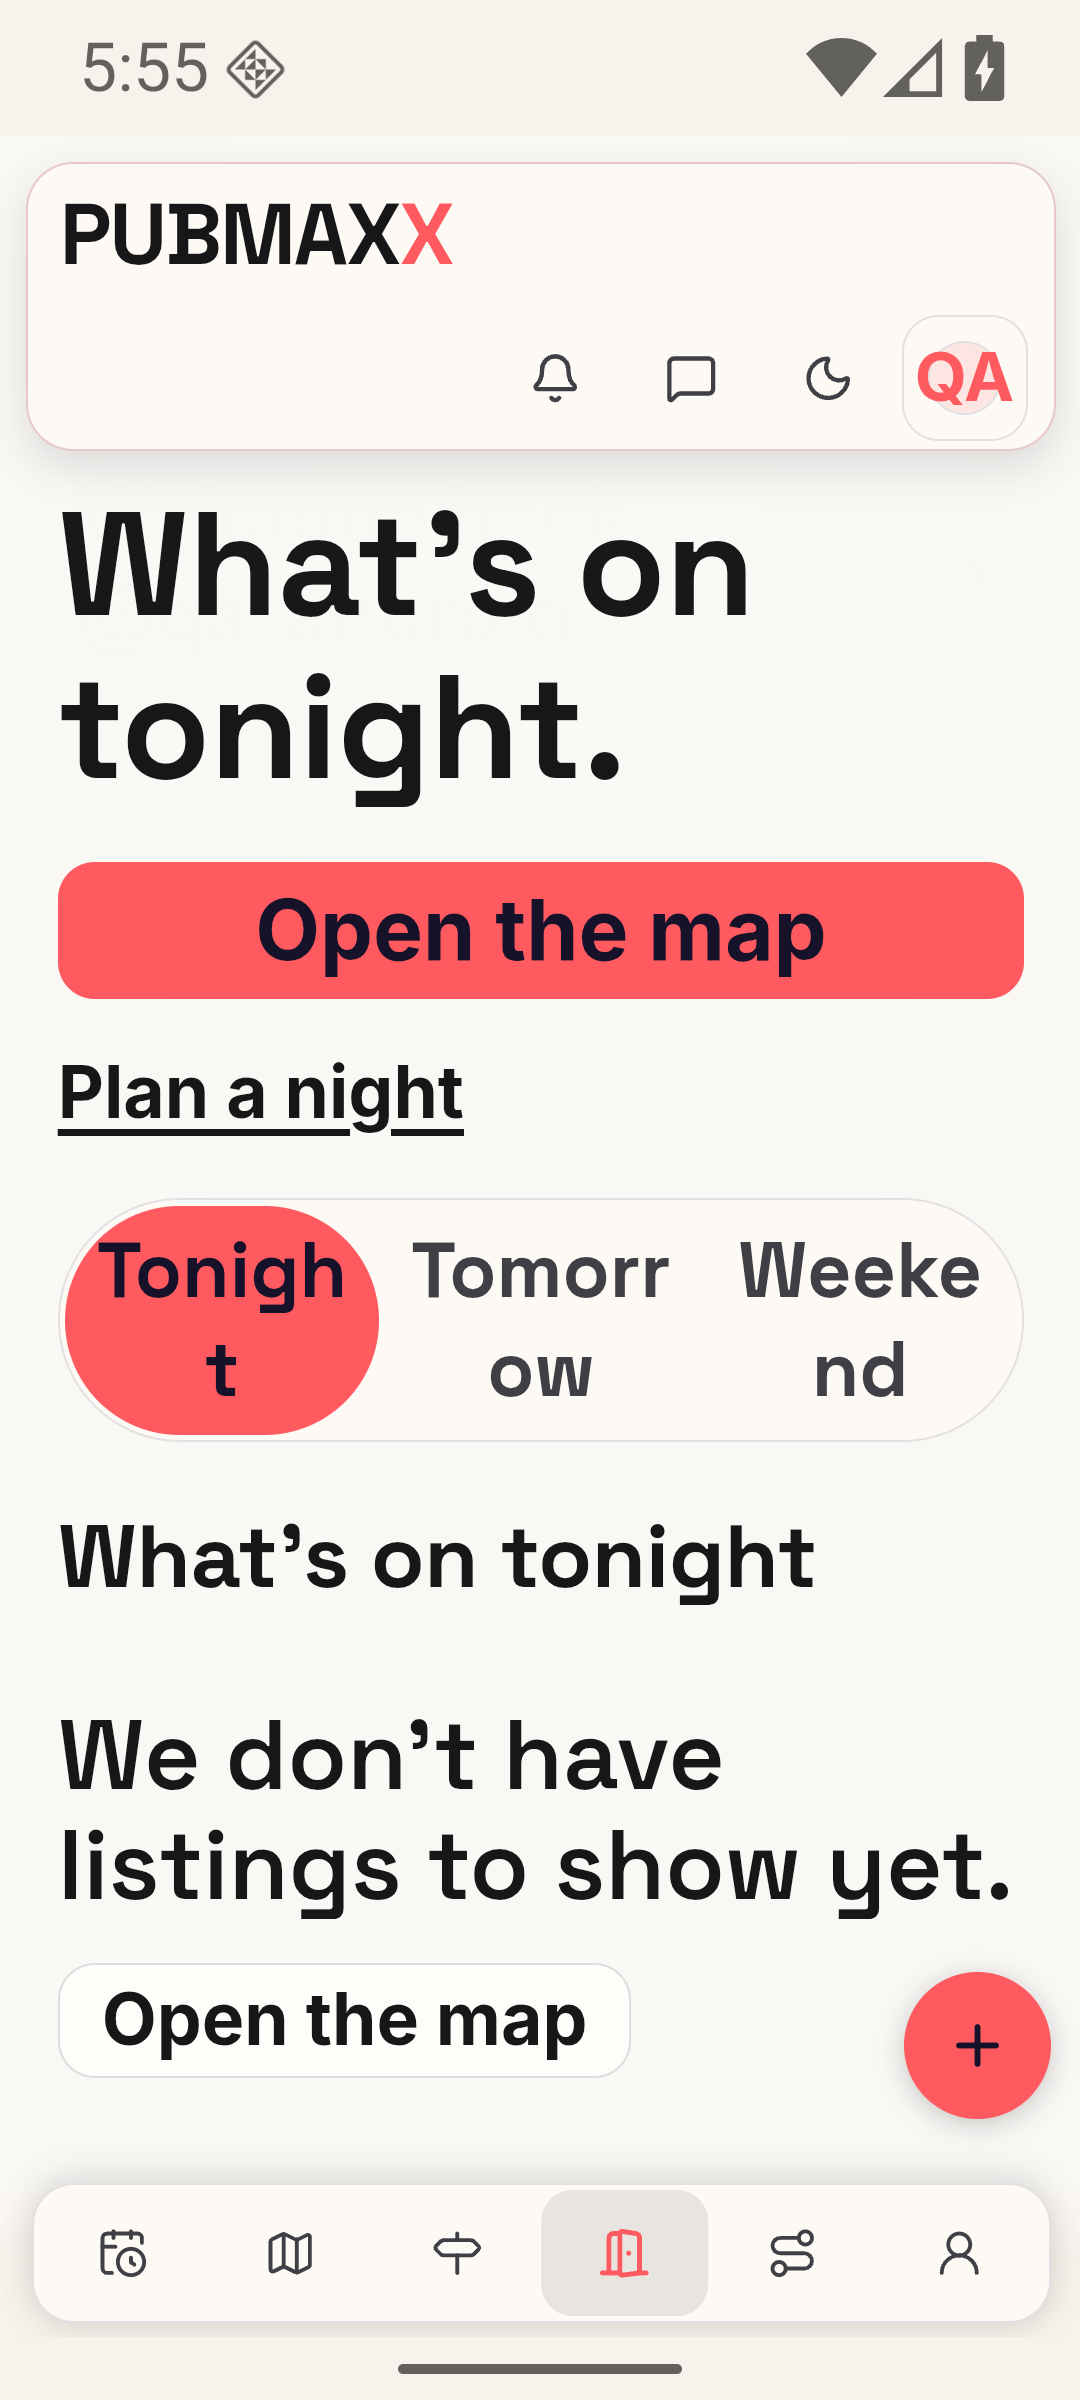
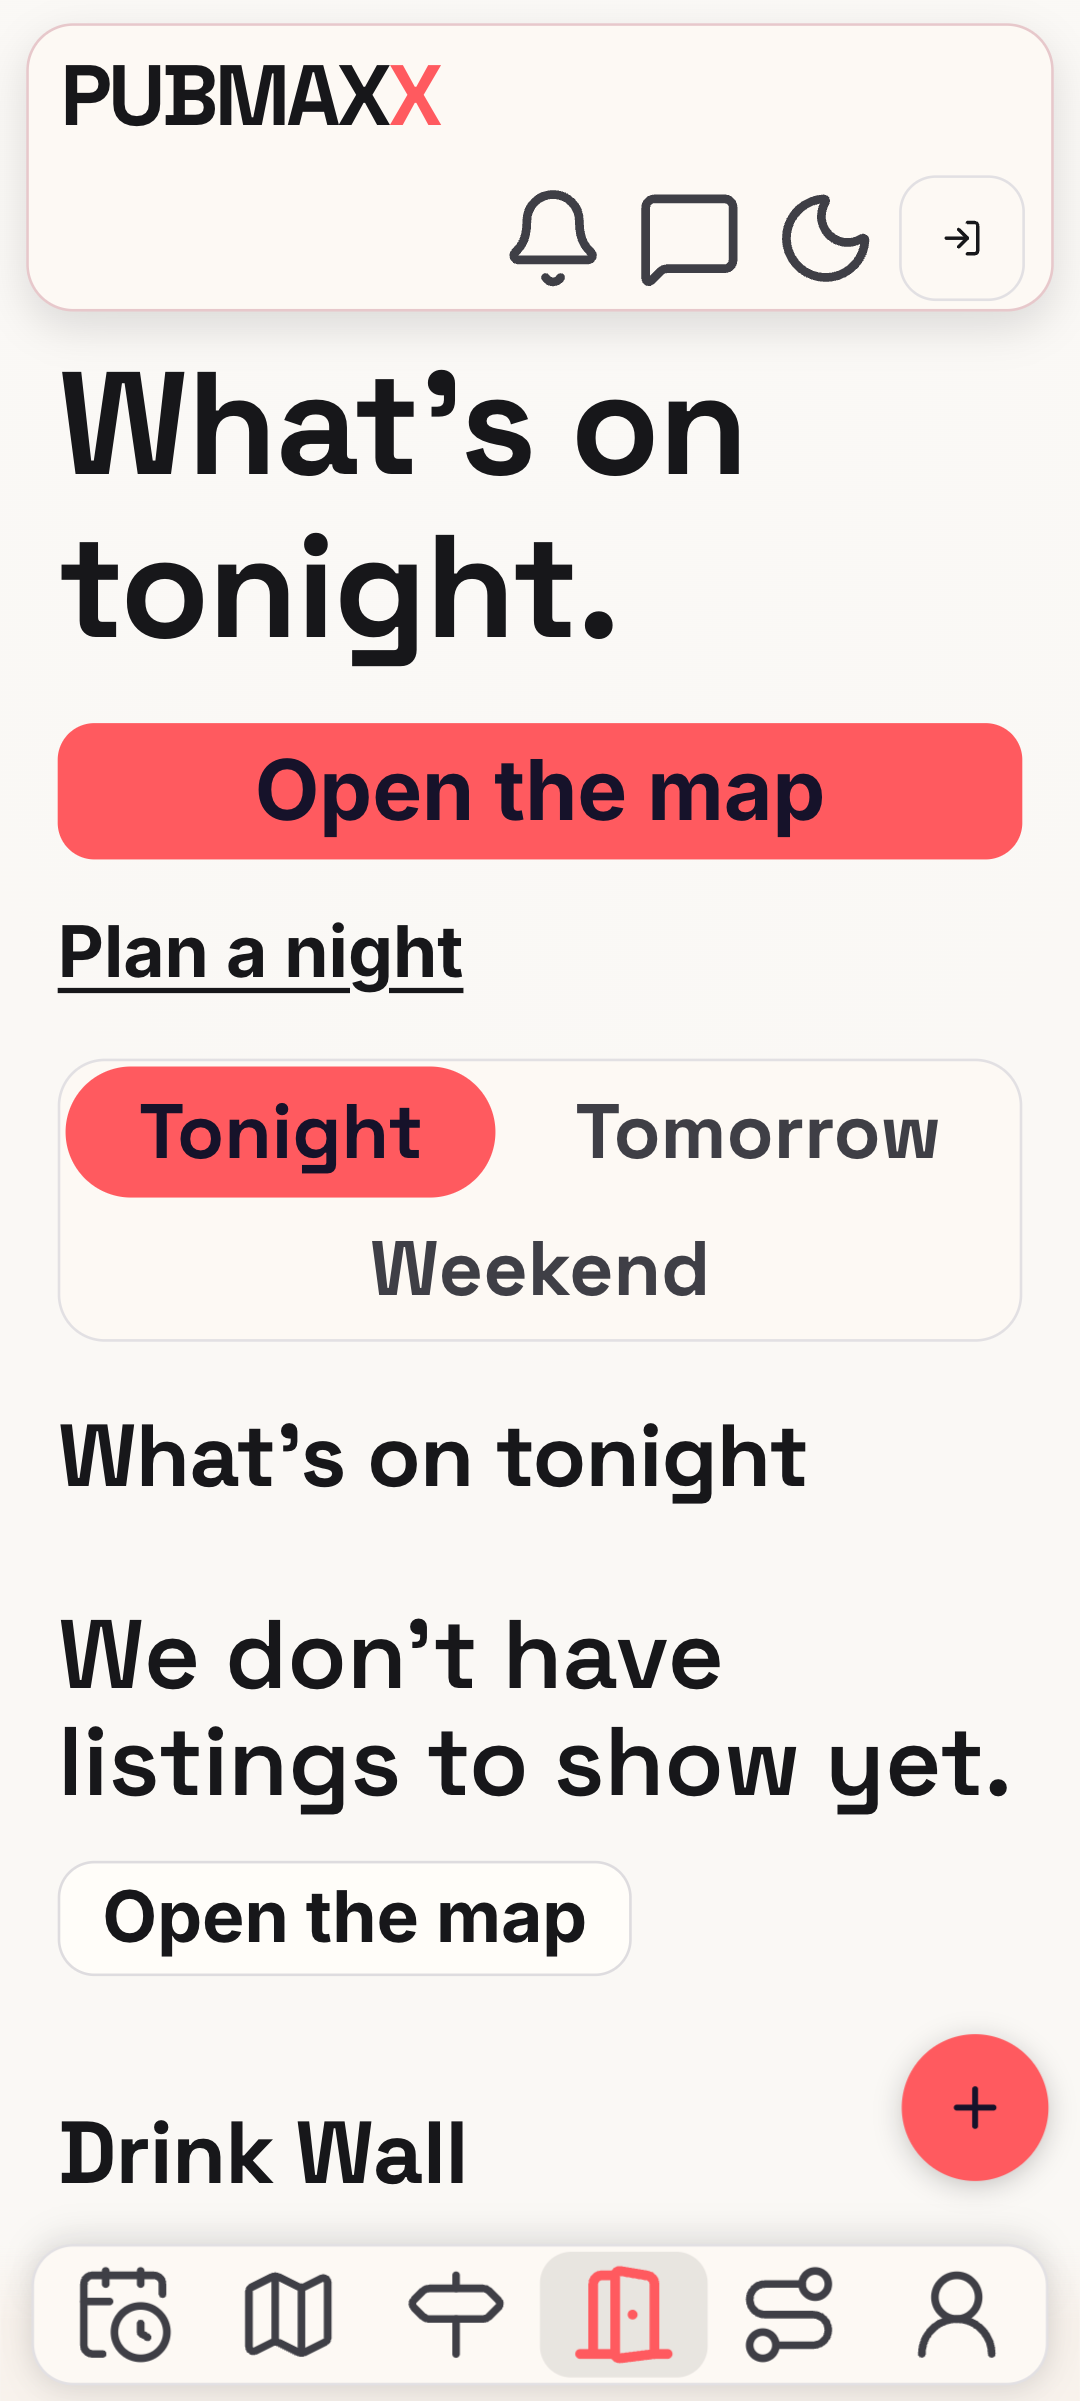
no-mistakes(review): Scope native 2xs, keep day chips and MB whole

diff --git a/e2e/mobile-large-text.spec.ts b/e2e/mobile-large-text.spec.ts
@@ -63,6 +63,45 @@ for (const scale of [1.3, 1.5, 2]) {
   }
 }
 
+for (const scale of [1.3, 1.5, 2]) {
+  test(`Android ${scale}x text keeps day words and the photo size whole`, async ({ page }) => {
+    await page.setViewportSize({ width: 412, height: 840 });
+    await installNativeShell(page, "android");
+    await page.addInitScript((fontScale) => {
+      document.documentElement.style.fontSize = `${fontScale * 100}%`;
+      document.documentElement.setAttribute("data-text-scale", "large");
+    }, scale);
+    await page.goto("/out");
+    await expect(page.locator(".outDayChip")).toHaveCount(3);
+    await page.evaluate(() => document.fonts.ready);
+    const chips = await page.locator(".outDayChip").evaluateAll((elements) => elements.map((element) => {
+      const range = document.createRange();
+      range.selectNodeContents(element);
+      const lines = new Set([...range.getClientRects()].map((box) => Math.round(box.top))).size;
+      return { text: element.textContent, lines };
+    }));
+    for (const chip of chips) expect(chip, chip.text ?? "").toMatchObject({ lines: 1 });
+
+    await page.goto("/moment");
+    const hint = page.locator(".momentMediaPickerLine").filter({ hasText: "MB" });
+    await expect(hint).toHaveCount(1);
+    const figure = await hint.evaluate((element) => {
+      const walker = document.createTreeWalker(element, NodeFilter.SHOW_TEXT);
+      for (let node = walker.nextNode(); node; node = walker.nextNode()) {
+        const match = /\d+(?:\.\d)?\s*MB/.exec(node.textContent ?? "");
+        if (!match) continue;
+        const range = document.createRange();
+        range.setStart(node, match.index);
+        range.setEnd(node, match.index + match[0].length);
+        const lines = new Set([...range.getClientRects()].map((box) => Math.round(box.top))).size;
+        return { text: match[0], lines };
+      }
+      return null;
+    });
+    expect(figure).toEqual({ text: "4\u00a0MB", lines: 1 });
+  });
+}
+
 for (const platform of ["android", "ios"] as const) {
   for (const scale of [1.3, 1.5, 2]) {
     test(`${platform} owner profile reflows at ${scale}x text`, async ({ page }) => {

diff --git a/app/globals.css b/app/globals.css
@@ -277,9 +277,10 @@
   /* — Type scale: a deliberate step system (~1.22 ratio) rather than ad-hoc
        rem values. Existing components keep their own literal sizes (unchanged
        per-component); new work should reach for these.
-       --text-2xs is defined ONCE here (0.75rem). The only redefinition is the
-       scoped html[data-legacy="1"] a11y bump below — never a second root value. */
-  --text-2xs: 0.75rem;
+       --text-2xs is defined ONCE here (0.68rem). The only redefinitions are the
+       scoped html[data-native-shell] and html[data-legacy="1"] a11y bumps
+       below — never a second root value. */
+  --text-2xs: 0.68rem;
   --text-xs: 0.76rem;
   --text-sm: 0.85rem;
   --text-base: 1rem;
@@ -5868,6 +5869,13 @@ button:disabled {
   }
 }
 
+/* The native shells read micro-labels at 12px, so a WebView eyebrow never
+   drops below the OS's own smallest label. The web keeps the stepped scale.
+   It sits before Legacy Mode, whose larger bump wins at the same specificity. */
+html[data-native-shell] {
+  --text-2xs: 0.75rem;
+}
+
 /* ────────────────────────────────────────────────────────────────────────
    Legacy Mode (issue #28) — a global, persisted accessibility toggle for
    older + low-vision users, mirroring ThemeToggle's persistence pattern
@@ -5883,8 +5891,9 @@ html[data-legacy="1"] {
   /* — Larger base type (~112-120% across the scale). Components that read
        var(--text-base) etc. (not literal rem values) grow automatically.
        Scoped ONLY under data-legacy — not a second global --text-2xs. Default
-       remains 0.68rem on :root so eyebrows (messagesThreadEyebrow etc.) stay
-       predictable unless the reader opted into Legacy Mode. */
+       remains 0.68rem on :root (0.75rem in the native shells) so eyebrows
+       (messagesThreadEyebrow etc.) stay predictable unless the reader opted
+       into Legacy Mode. */
   --text-2xs: 0.78rem;
   --text-xs: 0.88rem;
   --text-sm: 0.98rem;

diff --git a/__tests__/momentPhotoEditor.test.ts b/__tests__/momentPhotoEditor.test.ts
@@ -61,7 +61,7 @@ describe("Moment photo editor output", () => {
       edited(new Blob([new Uint8Array(MOMENT_MAX_PHOTO_BYTES + 1)], { type: "image/jpeg" })),
     );
     expect(oversized.media).toBe(original);
-    expect(oversized.error).toMatch(/4 MB/);
+    expect(oversized.error).toMatch(/4\u00a0MB/);
   });
 
   it("accepts edited photos through the wire upload boundary, and no looser", () => {
@@ -78,7 +78,7 @@ describe("Moment photo editor output", () => {
     expect(acceptedResult.error).toBeNull();
     expect(acceptedResult.media.size).toBe(MOMENT_MAX_PHOTO_BYTES);
     expect(rejectedResult.media).toBe(original);
-    expect(rejectedResult.error).toMatch(/4 MB/);
+    expect(rejectedResult.error).toMatch(/4\u00a0MB/);
     expect(validatePhoto(accepted.type, accepted.size, MOMENT_MAX_PHOTO_BYTES)).toBeNull();
     // ONE SPELLING OF THE FIGURE. The store's refusal printed "4MB" while the
     // boundary above it printed "4 MB" for the same number; both now read

diff --git a/lib/uploadBodyLimit.ts b/lib/uploadBodyLimit.ts
@@ -35,11 +35,12 @@ export const UPLOAD_PHOTO_MAX_BYTES = 4 * 1024 * 1024;
 /**
  * A byte figure as a reader sees it, and the ONE spelling of it. A caller may
  * pass its own ceiling (the upload path takes an override), so the words come
- * from the number rather than from a second constant beside each one.
+ * from the number rather than from a second constant beside each one. A
+ * no-break space joins the figure to its unit, so no wrap can part them.
  */
 export function uploadPhotoSizeLabel(bytes: number): string {
   const mib = bytes / (1024 * 1024);
-  return `${Number.isInteger(mib) ? mib : mib.toFixed(1)} MB`;
+  return `${Number.isInteger(mib) ? mib : mib.toFixed(1)}\u00a0MB`;
 }
 
 /** The number as a reader sees it, on the picker hint and in every refusal. */

diff --git a/app/out/out.css b/app/out/out.css
@@ -54,13 +54,25 @@
   min-width: 0;
   padding: 6px 10px;
   text-align: center;
-  overflow-wrap: anywhere;
   border-radius: var(--radius-pill, 999px);
   color: var(--ink-soft);
   font-family: var(--font-display);
   font-size: 0.92rem;
   font-weight: 700;
   text-decoration: none;
+}
+
+/* At a large phone text size the three days stop sharing one row. Each chip
+   keeps its word whole and wraps to a new row instead, and the frame stops
+   being a pill once it holds more than one row. */
+html[data-text-scale="large"] .outDayChips {
+  display: flex;
+  flex-wrap: wrap;
+  border-radius: var(--radius-lg);
+}
+
+html[data-text-scale="large"] .outDayChip {
+  flex: 1 1 auto;
 }
 
 .outDayChip[aria-current="page"] {

diff --git a/components/moment/moment.css b/components/moment/moment.css
@@ -142,7 +142,7 @@
 .momentMediaPicker:hover { border-color: color-mix(in srgb, var(--brass) 55%, var(--line)); background: color-mix(in srgb, var(--brass) 8%, var(--paper)); }
 .momentMediaPicker strong { color: var(--ink); font-size: 15px; }
 .momentMediaPicker span { color: var(--muted); font-size: 12px; max-width: 30ch; text-align: center; }
-.momentMediaPickerLine { white-space: normal; text-wrap: balance; }
+.momentMediaPickerLine { text-wrap: balance; }
 .momentMediaPicker input { position: absolute; width: 1px; height: 1px; overflow: hidden; clip: rect(0 0 0 0); clip-path: inset(50%); }
 
 /* Desktop drag-drop affordance (D1.4). Phone keeps the quieter picker. */

diff --git a/lib/momentPhotoIntake.ts b/lib/momentPhotoIntake.ts
@@ -115,9 +115,9 @@ const MOMENT_PICKER_RESIZE_LINE = `Photos over ${UPLOAD_PHOTO_MAX_LABEL} are res
 
 /**
  * What the composer says under the picker, at each width: one sentence per
- * line, so a figure is never split from its unit at a wrap and the last line
- * is never an orphaned clause. The phone names the sheet; the desk names the
- * types and the other way in.
+ * line, so the last line is never an orphaned clause. The size label keeps
+ * its figure on its unit at a wrap. The phone names the sheet; the desk names
+ * the types and the other way in.
  */
 export function momentPickerHint(isPhone: boolean): readonly string[] {
   return isPhone

diff --git a/__tests__/uploadBodyLimit.test.ts b/__tests__/uploadBodyLimit.test.ts
@@ -46,7 +46,7 @@ describe("one photo on the wire fits inside the function's own body limit", () =
   it("is the number the platform documents, in the platform's own megabytes", () => {
     expect(FUNCTION_REQUEST_BODY_LIMIT_BYTES).toBe(4_500_000);
     expect(UPLOAD_PHOTO_MAX_BYTES).toBe(4 * 1024 * 1024);
-    expect(UPLOAD_PHOTO_MAX_LABEL).toBe("4 MB");
+    expect(UPLOAD_PHOTO_MAX_LABEL).toBe("4\u00a0MB");
   });
 
   it("answers the fit question at the boundary", () => {

diff --git a/__tests__/wordedAbsences.test.tsx b/__tests__/wordedAbsences.test.tsx
@@ -180,7 +180,7 @@ describe("a photo the platform will refuse is refused here, by size, in the brow
   });
 
   it("prints a figure a reader can act on, not the wrong one", () => {
-    expect(UPLOAD_PHOTO_MAX_LABEL).toBe("4 MB");
+    expect(UPLOAD_PHOTO_MAX_LABEL).toBe("4\u00a0MB");
     for (const file of [
       "components/map/usePintDrops.ts",
       "components/map/VenuePriceSubmit.tsx",

diff --git a/docs/proof/android-large-text/README.md b/docs/proof/android-large-text/README.md
@@ -20,8 +20,8 @@ The routes are `/tonight`, `/places`, `/out`, `/plan`, `/u/qa_android`, `/map`, 
 | --- | --- | --- | --- |
 | Owner profile | 588px | 412px | Action minimum widths and content-sized grids now fit the available width. Stats and profile tabs adapt to large text. |
 | Places | 538px | 412px | The search grid now permits its input to shrink. |
-| Out | 466px | 412px | The day-picker columns shrink and their labels wrap. |
-| Moment | 425px | 412px | The photo-picker grid shrinks and its guidance wraps. |
+| Out | 466px | 412px | At large text sizes the day chips wrap onto new rows. Each day name stays whole. |
+| Moment | 425px | 412px | The photo-picker grid shrinks and its guidance wraps. A no-break space keeps "4 MB" on one line. |
 
 | Before | After |
 | --- | --- |
@@ -30,12 +30,16 @@ The routes are `/tonight`, `/places`, `/out`, `/plan`, `/u/qa_android`, `/map`, 
 | ![Out before](out-before.png) | ![Out after](out-after.png) |
 | ![Moment before](moment-before.png) | ![Moment after](moment-after.png) |
 
+The Out after shot and the [Moment picker after shot](moment-picker-after.png) come from the review round.
+No Android emulator was available for that round, so both are Chromium captures with the Android native-shell stub at 412px and scale 2.0.
+Chromium has no WebView text zoom, so the picker capture doubles the picker's pixel-sized text by hand.
+
 ## Controls and type
 
 Native controls use the shared 48px height. Header icons, map header tracks, checkbox labels, and tab items follow that token.
 The header uses two rows at large text sizes. Its icons and tab icons scale with the text.
 The welcome message wraps instead of truncating the handle.
-Micro-labels use the shared 0.75rem token, which is 12px at the default text size.
+In the native shells, micro-labels use the 0.75rem `--text-2xs` value, which is 12px at the default text size. The web keeps 0.68rem.
 
 The native readability sweep covers Map, Pubs, Discover's canonical Social route, and Pint Index at scale 1.0.
 All four have no visible text below 11px. [native-readable.json](native-readable.json) records the before and after measurements.
@@ -48,7 +52,8 @@ Onboarding readability has browser proof with its required first-run handoff. Di
 
 The [profile at scale 1.5](profile-1.5-after.png) also shows equal action heights when one label wraps.
 
-`e2e/mobile-large-text.spec.ts` checks 30 route and scale combinations, six owner-profile layouts, touch targets, and five small-text routes.
+`e2e/mobile-large-text.spec.ts` checks 30 route and scale combinations, three word-integrity cases, six owner-profile layouts, touch targets, and five small-text routes.
+The word-integrity cases check that each day chip and the photo-size figure stay on one line at scales 1.3, 1.5, and 2.0.
 The touch test checks all ten visible header and tab controls and both checkbox label targets.
 It opens Filters and toggles Saved only through the rendered controls.
 
@@ -60,6 +65,7 @@ They verify shared CSS geometry. They do not establish physical iPhone Dynamic T
 The final production build passed.
 Browser checks passed 30 overflow cases, six owner-profile layouts, one touch-target case, and five readability cases.
 The readability cases include Discover's redirect and onboarding's required handoff.
+After the review fixes, all 45 cases in the spec passed again against a fresh production build.
 `npm run verify:no-mistakes` passed. It runs the repository's full `npm run verify` against committed data.
 The unit suite passed 20,997 tests, with one existing skip. The database suites passed 554 tests and 10 cleanup tests.
 Lint reported no errors. Types, coverage, conditional-skip checks, freshness, install-script policy, and dependency audit passed.

diff --git a/docs/DESIGN_SYSTEM.md b/docs/DESIGN_SYSTEM.md
@@ -362,7 +362,7 @@ as a stamp, it may keep caps.
 ### Type scale
 
 ```
---text-2xs   0.75rem     eyebrows, micro-labels
+--text-2xs   0.68rem     eyebrows, micro-labels (0.75rem in the native shells)
 --text-xs    0.76rem     chip/tag text
 --text-sm    0.85rem     secondary body copy
 --text-base  1rem        default body
@@ -372,6 +372,11 @@ as a stamp, it may keep caps.
 --text-2xl   2.13rem     page-level display
 --text-3xl   2.6rem      landing hero only
 ```
+
+Inside the iOS and Android shells, `html[data-native-shell]` raises `--text-2xs`
+to 0.75rem, which is 12px at the default text size. There it sits close to
+`--text-xs` on purpose: on a phone a micro-label must stay legible, and that
+wins over the step between the two sizes. The web keeps the stepped scale.
 
 ```
 --leading-tight   1.12   display headlines
